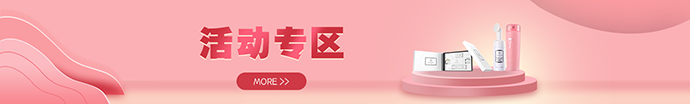
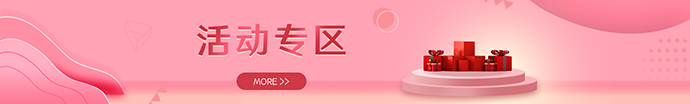
首页更换图片，添加圆角

diff --git a/template/shop/rainbow/static/css/index_zp.css b/template/shop/rainbow/static/css/index_zp.css
@@ -349,9 +349,11 @@ body{
 } */
 
 .picc{
+    width: 6.9rem;
+    height: .5rem;
     margin: .2rem auto;
-    padding: 0 .3rem;
-    box-sizing: border-box;
+    border-radius: .08rem;
+    overflow: hidden;
 }
 
 .picc img{
@@ -360,9 +362,11 @@ body{
 
 /* 活动专区 */
 .activity-zone{
-    padding: 0 .3rem;
-    box-sizing: border-box;
-    margin-bottom: .2rem;
+    width: 6.9rem;
+    height: 1.04rem;
+    border-radius: .08rem;
+    overflow: hidden;
+    margin: 0 auto .2rem;
 }
 .activity-zone img{
     width: 100%;
@@ -378,12 +382,15 @@ body{
     height: 1.64rem;
     margin-right: .2rem;
     float: left;
+    border-radius: .08rem;
+    overflow: hidden;
 }
 .area-category .cate-item:nth-child(2n){
     margin-right: 0;
 }
 .area-category .cate-item img{
     width: 100%;
+    border-radius: .08rem;
 }
 
 /* 公共标题 */

diff --git a/template/shop/rainbow/find/find.html b/template/shop/rainbow/find/find.html
@@ -171,7 +171,7 @@
 		<script>
 			var player = new Aliplayer({
 			  "id": "player-con",
-			  "source": "https://kucun.zhifengwangluo.com/public/video/2.mp4",
+			  "source": "https://kucun.zhifengwangluo.com/public/video/1.mp4",
 			  "width": "6.9rem",
 			  "height": "3.2rem",
 			  "autoplay": false,

diff --git a/template/shop/rainbow/index/index.html b/template/shop/rainbow/index/index.html
@@ -326,7 +326,7 @@
 <script>
 	var player = new Aliplayer({
 	  "id": "player-con",
-	  "source": "https://kucun.zhifengwangluo.com/public/video/1.mp4",
+	  "source": "https://kucun.zhifengwangluo.com/public/video/2.mp4",
 	  "width": "6.9rem",
 	  "height": "3.2rem",
 	  "autoplay": false,
